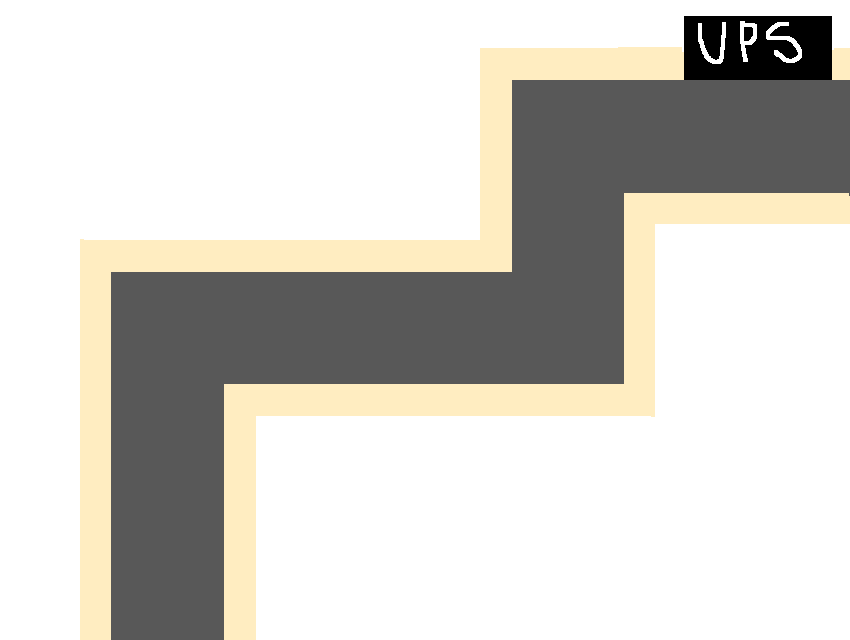
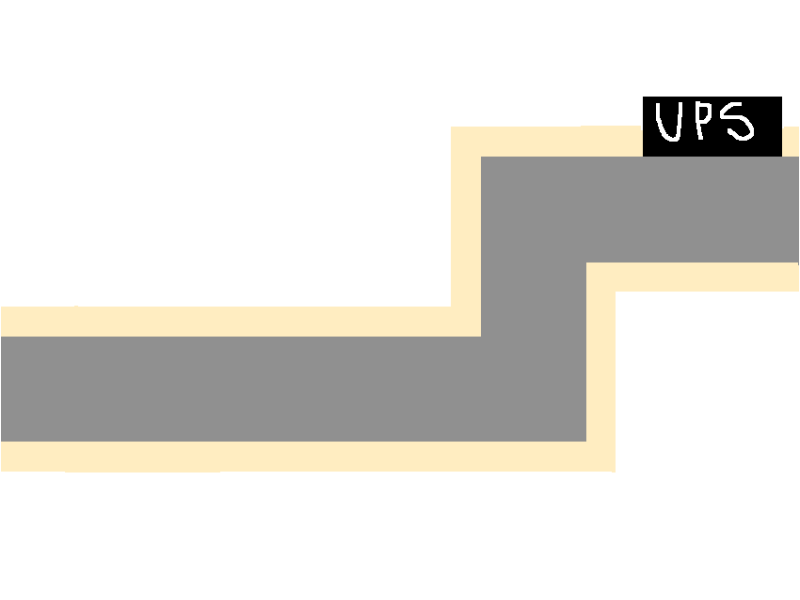
added more placeholder assets, added changing scenes through driving through correct area, changed size of truck

diff --git a/src/scenes/PostOffice.js b/src/scenes/PostOffice.js
@@ -6,15 +6,20 @@ class PostOffice extends Phaser.Scene {
     preload() {
         // load assets
         this.load.path = './assets/'
+        this.load.image('letterbg', 'letterbg.png')
         this.load.image('postoffice', 'postoffice.png')
-        this.load.image('truck', 'truck.png')
+        this.load.image('truck', 'truckwide.png')
+        this.load.image('finish', 'finish.png')
         this.load.image('crosswalk', 'crosswalk.png')
-        this.load.image('scenecheck1', 'scenecheck1.png')
+        this.load.image('crosswalkside', 'crosswalkside.png')
+        this.load.image('river', 'river.png')
+        this.load.image('apartment', 'apartment.png')
+        this.load.image('scenecheck', 'scenecheck.png')
         this.load.spritesheet('stoplight', 'stoplight.png', {
             frameWidth: 850,
             frameHeight: 640
         })
-        this.load.spritesheet('truckspritesheet', 'truckspritesheet.png', {
+        this.load.spritesheet('truckwidespritesheet', 'truckwidespritesheet.png', {
             frameWidth: 64,
             frameHeight: 64
         })
@@ -22,22 +27,13 @@ class PostOffice extends Phaser.Scene {
 
     create() {
         // background
-        this.postoffice = this.add.tileSprite(0, 0, 850, 640, 'postoffice').setOrigin(0, 0).setDepth(0)
-        this.stoplight = this.add.tileSprite(0, 0, 850, 640, 'stoplight').setOrigin(0, 0).setDepth(1).setFrame(1)
-        this.crosswalk = this.add.tileSprite(0, 0, 850, 640, 'crosswalk').setOrigin(0, 0).setDepth(0)
-        this.scenecheck1 = this.add.tileSprite(118, 630, 100, 0, 'scenecheck1').setOrigin(0, 0).setDepth(1)
+        this.letterbg = this.add.tileSprite(0, 0, 1000, 800, 'letterbg').setOrigin(0, 0).setDepth(0)
+        this.postoffice = this.add.tileSprite(100, 105, 800, 600, 'postoffice').setOrigin(0, 0).setDepth(1)
+        this.stoplight = this.add.tileSprite(50, 165, 850, 640, 'stoplight').setOrigin(0, 0).setDepth(3).setFrame(1)
+        this.crosswalk = this.add.tileSprite(350, 442, 64, 100, 'crosswalk').setOrigin(0, 0).setDepth(1)
+        this.scenecheck1 = this.add.tileSprite(100, 445, 3, 100, 'scenecheck').setOrigin(0, 0).setDepth(1)
 
-        // borders
-        this.add.rectangle(0, 0, game.config.width, borderUISize, 
-        0x00000).setOrigin(0, 0)
-        this.add.rectangle(0, game.config.height - borderUISize, game.config.width, 
-        borderUISize, 0x00000).setOrigin(0, 0)
-        this.add.rectangle(0, 0, borderUISize, game.config.height, 
-        0x00000).setOrigin(0, 0);
-        this.add.rectangle(game.config.width - borderUISize, 0, borderUISize, 
-        game.config.height, 0x00000).setOrigin(0, 0)
-
-        this.truck = new Truck(this, 780, 125, 'truckspritesheet', 0)
+        this.truck = new Truck(this, 825, 300, 'truckwidespritesheet', 0).setDepth(2)
 
         this.cursors = this.input.keyboard.createCursorKeys()
     }
@@ -46,9 +42,7 @@ class PostOffice extends Phaser.Scene {
         this.truckFSM.step()
 
         if (this.checkCollision(this.truck, this.scenecheck1)) {
-            this.time.delayedCall(1000, () => {
-                this.scenecheck1.setAlpha(0)
-            })
+            this.scene.start('riverScene')
         }
     }
 

diff --git a/src/scenes/Apartment.js b/src/scenes/Apartment.js
@@ -3,9 +3,29 @@ class Apartment extends Phaser.Scene {
         super('apartmentScene')
     }
 
-    create() {
+    create() { 
+        this.letterbg = this.add.tileSprite(0, 0, 1000, 800, 'letterbg').setOrigin(0, 0).setDepth(0)
+        this.apartment = this.add.tileSprite(100, 105, 800, 600, 'apartment').setOrigin(0, 0).setDepth(0)
+        this.stoplight1 = this.add.tileSprite(420, -135, 850, 640, 'stoplight').setOrigin(0, 0).setDepth(3).setFrame(1)
+        this.crosswalk1 = this.add.tileSprite(710, 137, 64, 100, 'crosswalk').setOrigin(0, 0).setDepth(1)
+        this.stoplight2 = this.add.tileSprite(265, 730, 850, 640, 'stoplight').setOrigin(0, 0).setDepth(3).setAngle(-90).setFrame(1)
+        this.crosswalk2 = this.add.tileSprite(542, 380, 100, 64, 'crosswalkside').setOrigin(0, 0).setDepth(1)
+        this.finish = this.add.tileSprite(240, 550, 100, 64, 'finish').setOrigin(0, 0).setDepth(1)
+        this.truck = new Truck(this, 900, 180, 'truckwidespritesheet', 0).setDepth(2)
+        this.cursors = this.input.keyboard.createCursorKeys()
     }
 
     update() {
+        this.truckFSM.step()
     }
+
+    checkCollision(obj1, obj2) {
+        return (
+            obj1.x < obj2.x + obj2.width &&
+            obj1.x + obj1.width > obj2.x &&
+            obj1.y < obj2.y + obj2.height &&
+            obj1.y + obj1.height > obj2.y
+        )
+    }
+
 }

diff --git a/src/prefabs/Truck.js b/src/prefabs/Truck.js
@@ -36,13 +36,13 @@ class DriveState extends State {
 
     execute(scene, truck) {
 
-        const speed = 2
+        const speed = 5
         let moving = false
 
         if (scene.cursors.left.isDown) {
             truck.setFrame(0)
             truck.setFlipX(false)
-            truck.setFlipY(false)   // reset vertical flip
+            truck.setFlipY(false)
             truck.x -= speed
             moving = true
         }
@@ -50,7 +50,7 @@ class DriveState extends State {
         else if (scene.cursors.right.isDown) {
             truck.setFrame(0)
             truck.setFlipX(true)
-            truck.setFlipY(false)   // reset vertical flip
+            truck.setFlipY(false)
             truck.x += speed
             moving = true
         }
@@ -58,7 +58,7 @@ class DriveState extends State {
         else if (scene.cursors.down.isDown) {
             truck.setFrame(1)
             truck.setFlipX(false)
-            truck.setFlipY(false)   // reset vertical flip
+            truck.setFlipY(false)
             truck.y += speed
             moving = true
         }

diff --git a/src/scenes/River.js b/src/scenes/River.js
@@ -1,0 +1,30 @@
+class River extends Phaser.Scene {
+    constructor() {
+        super('riverScene')
+    }
+
+    create() { 
+        this.letterbg = this.add.tileSprite(0, 0, 1000, 800, 'letterbg').setOrigin(0, 0).setDepth(0)
+        this.river = this.add.tileSprite(100, 105, 800, 600, 'river').setOrigin(0, 0).setDepth(0)
+        this.scenecheck2 = this.add.tileSprite(100, 350, 3, 100, 'scenecheck').setOrigin(0, 0).setDepth(1)
+        this.truck = new Truck(this, 900, 390, 'truckwidespritesheet', 0)
+        this.cursors = this.input.keyboard.createCursorKeys()
+    }
+
+    update() {
+        this.truckFSM.step()
+
+        if (this.checkCollision(this.truck, this.scenecheck2)) {
+            this.scene.start('apartmentScene')
+        }
+    }
+
+    checkCollision(obj1, obj2) {
+        return (
+            obj1.x < obj2.x + obj2.width &&
+            obj1.x + obj1.width > obj2.x &&
+            obj1.y < obj2.y + obj2.height &&
+            obj1.y + obj1.height > obj2.y
+        )
+    }
+}

diff --git a/src/main.js b/src/main.js
@@ -3,9 +3,8 @@
 const config = {
     parent: 'phaser-game',
     type: Phaser.AUTO,
-    width: 850,
-    height: 640,
-    backgroundColor: '#000000',
+    width: 1000,
+    height: 800,
     resolution: window.devicePixelRatio,
     pixelArt: true,
     zoom: 2,
@@ -15,7 +14,7 @@ const config = {
             debug: true
         }
     },
-    scene: [ PostOffice, Downtown, Apartment ],
+    scene: [ PostOffice, River, Apartment ],
     fps: {
         target: 60,
         forceSetTimeOut: true

diff --git a/index.html b/index.html
@@ -6,7 +6,7 @@
     <title>Playable Postcard</title>
     <script src="./lib/phaser.js"></script>
     <script src="./src/scenes/PostOffice.js"></script>
-    <script src="./src/scenes/Downtown.js"></script>
+    <script src="./src/scenes/River.js"></script>
     <script src="./src/scenes/Apartment.js"></script>
     <script src="./lib/StateMachine.js"></script>
     <script src="./src/prefabs/Truck.js"></script>
